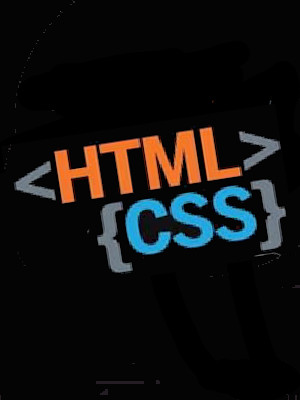
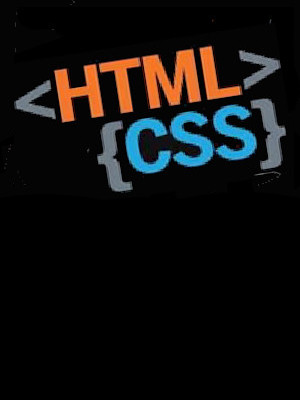
deploy changes, mobile view

diff --git a/src/Technologies.jsx b/src/Technologies.jsx
@@ -1,7 +1,12 @@
-import * as React from "react";
+import { isMobile } from "react-device-detect";
+import React, { useEffect, useState } from "react";
 import MotionHoc from "./MotionHOC";
 
 const Technologies = () => {
+  const [_isMobile, setMobile] = useState();
+  useEffect(() => {
+    setMobile(isMobile);
+  }, [setMobile]);
   return (
     <div className="container">
       <div className="card">
@@ -10,7 +15,7 @@ const Technologies = () => {
             <h2 className="react">React</h2>
             <h4 className="react">
               is a free and open-source front-end JavaScript library for
-              building user interfaces based on UI components. I
+              building user interfaces based on UI components.
             </h4>
           </div>
         </div>
@@ -40,9 +45,10 @@ const Technologies = () => {
               HTML (the Hypertext Markup Language) and CSS (Cascading Style
               Sheets) are two of the core technologies for building Web pages.
               HTML provides the structure of the page, CSS the (visual and
-              aural) layout, for a variety of devices. Along with graphics and
-              scripting, HTML and CSS are the basis of building Web pages and
-              Web Applications
+              aural) layout, for a variety of devices.
+              {_isMobile
+                ? ""
+                : "Along with graphics and scripting, HTML and CSS are the basis of building Web pages and Web Applications"}
             </h4>
           </div>
         </div>

diff --git a/pages/tech.scss b/pages/tech.scss
@@ -107,7 +107,7 @@ body {
     }
 
     .card:nth-child(3) .face.face2 {
-      background-image: url("../public/html-css2.jpg");
+      background-image: url("../public/html-css.jpg");
       background-repeat: no-repeat;
       border-radius: 15px;
     }
@@ -115,18 +115,44 @@ body {
 }
 
 @media screen and (max-width: 625px) {
- body .container {
+  body .container {
     margin-top: 500px;
+  }
+
+  body .container {
+    .card {
+      width: 200px;
+      height: 300px;
+    }
+    .card:hover .face.face2 {
+      height: 30px;
+
+      h2 {
+        font-size: 1.5em;
+      }
+    }
+
+    .card:nth-child(1) .face.face2 {
+      background-image: url("../public/reactMobile.jpg");
+    }
+
+    .card:nth-child(2) .face.face2 {
+      background-image: url("../public/javascriptMobile.jpg");
+    }
+
+    .card:nth-child(3) .face.face2 {
+      background-image: url("../public/html-cssMobile.jpg");
+    }
   }
 }
 
 @media screen and (max-width: 350px) {
   body .container {
-     margin-top: 120vw;
-   }
- 
-   .m {
-     margin-top: 50vw;
-     font-size: smaller;
-   }
- }
+    margin-top: 160vw;
+  }
+
+  .m {
+    margin-top: 50vw;
+    font-size: smaller;
+  }
+}

diff --git a/src/MotionHOC.jsx b/src/MotionHOC.jsx
@@ -1,6 +1,4 @@
-import React, {useState, useEffect} from "react";
 import { motion } from "framer-motion";
-import { isMobile } from "react-device-detect";
 
 const pageVariants = {
   initial: {
@@ -28,32 +26,18 @@ const pageTransition = {
 };
 
 const MotionHoc = (Component, className) => {
-
-
-  const AnimatedComponent = () => {
-    const [_isMobile, setMobile] = useState();
-
-    useEffect(() => {
-        setMobile(isMobile);
-    }, [setMobile]);
-    return _isMobile ? (
-      <div className={`motion ${className}`}>
-        <Component />
-      </div>
-    ) : (
-      <motion.div
-        className={`motion ${className}`}
-        initial="initial"
-        animate="in"
-        exit="out"
-        variants={pageVariants}
-        transition={pageTransition}
-      >
-        <Component />
-      </motion.div>
-    );
-  };
-
+  const AnimatedComponent = () => (
+    <motion.div
+      className={`motion ${className}`}
+      initial="initial"
+      animate="in"
+      exit="out"
+      variants={pageVariants}
+      transition={pageTransition}
+    >
+      <Component />
+    </motion.div>
+  );
   return AnimatedComponent;
 };
 

diff --git a/src/SideBar.jsx b/src/SideBar.jsx
@@ -1,7 +1,10 @@
+import { useEffect, useState } from "react";
 import CastForEducationIcon from "@mui/icons-material/CastForEducation";
 import SupervisedUserCircleIcon from "@mui/icons-material/SupervisedUserCircle";
 import ModelTrainingIcon from "@mui/icons-material/ModelTraining";
 import MeetingRoomIcon from "@mui/icons-material/MeetingRoom";
+
+import { isMobile } from "react-device-detect";
 
 import Link from "next/link";
 
@@ -15,6 +18,10 @@ const links = [
 ];
 
 const SideBar = ({ children }) => {
+  const [_isMobile, setMobile] = useState();
+  useEffect(() => {
+    setMobile(isMobile);
+  }, [setMobile]);
   return (
     <>
       <div className="nav-container">
@@ -36,7 +43,7 @@ const SideBar = ({ children }) => {
           <div className="flex"> {children}</div>
         </div>
       </div>
-      <Background />
+      {_isMobile ? null : <Background />}
     </>
   );
 };

diff --git a/pages/styles.scss b/pages/styles.scss
@@ -127,11 +127,11 @@ nav ul li > div {
   }
 
   .shining-text {
-    font-size: 1.5em;
+    font-size: 1em;
     letter-spacing: normal;
     text-shadow: 0 0 5px rgb(56, 78, 139), 0 0 5px #fff, 0 0 10px #fff;
   }
   .title {
-    font-size: 2em;
+    font-size: 1.5em;
   }
 }
